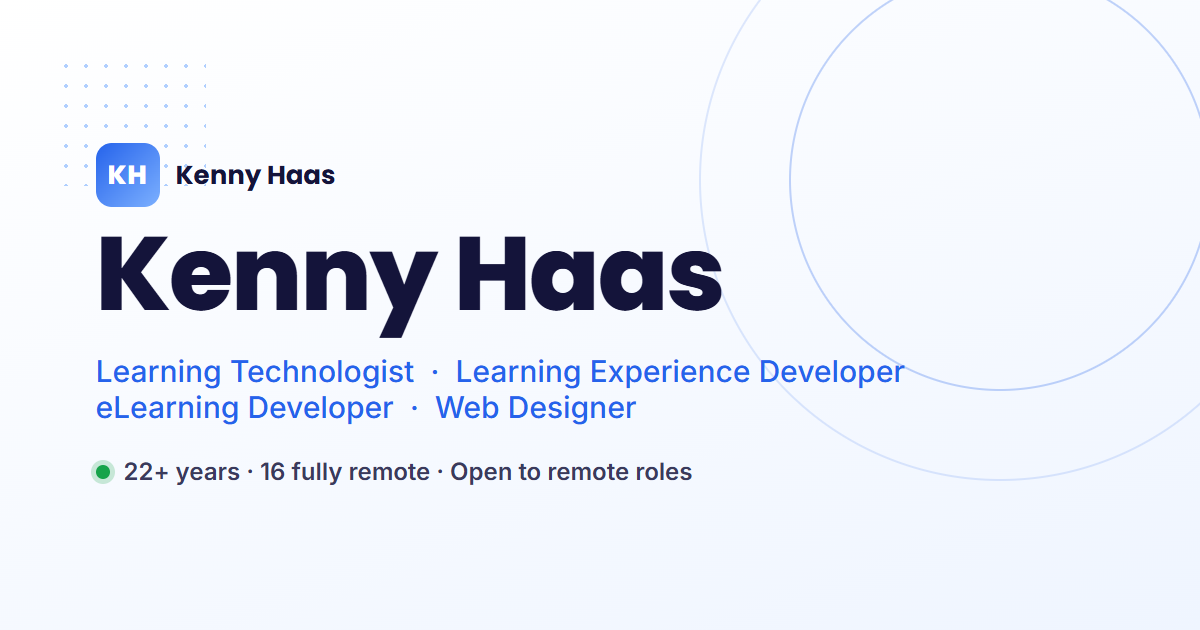
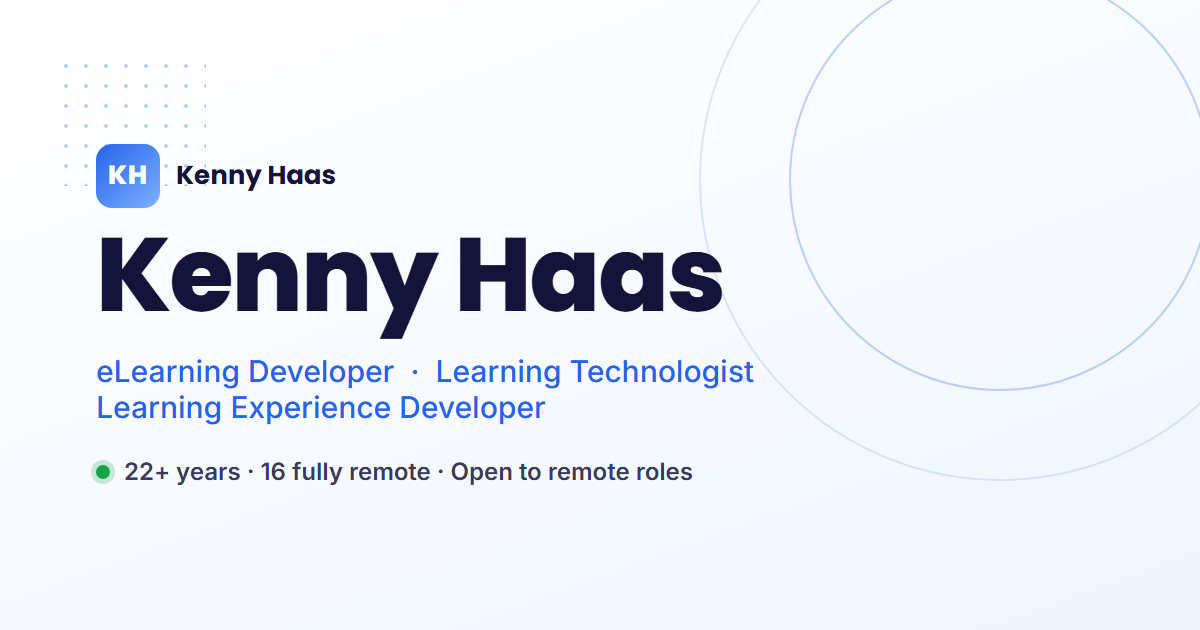
Update job titles site-wide, add Camtasia, refresh OG card and resume
- Hero, page <title>/OG/Twitter meta, and the six case-study Role lines
  now use eLearning Developer / Learning Technologist / Learning
  Experience Developer (Web Designer dropped)
- Regenerate assets/img/og-image.png from the updated
  og-image-template.html (still 1200x630)
- About: add Camtasia to Technical Skills, shorten "JavaScript" to "JS"
  in the Web Design entry, and revise the intro paragraph wording
- Updated resume PDF

diff --git a/index.html b/index.html
@@ -13,8 +13,8 @@
     gtag('config', 'G-B7SGGYEHKS');
   </script>
 
-  <title>Kenny Haas &mdash; Learning Technologist &amp; eLearning Developer</title>
-  <meta name="description" content="Portfolio of Kenny Haas, a Learning Technologist and eLearning Developer with 22+ years of experience &mdash; the last 16 fully remote &mdash; building eLearning, learning portals, and interactive learning tools. Open to remote roles." />
+  <title>Kenny Haas &mdash; eLearning Developer &amp; Learning Technologist</title>
+  <meta name="description" content="Portfolio of Kenny Haas, an eLearning Developer and Learning Technologist with 22+ years of experience &mdash; the last 16 fully remote &mdash; building eLearning, learning portals, and interactive learning tools. Open to remote roles." />
 
   <link rel="canonical" href="https://www.klhaas.com/" />
 
@@ -22,15 +22,15 @@
        Drop a 1200x630 image at assets/img/og-image.png (see assets/og-image-template.html). -->
   <meta property="og:type" content="website" />
   <meta property="og:url" content="https://www.klhaas.com/" />
-  <meta property="og:title" content="Kenny Haas &mdash; Learning Technologist &amp; eLearning Developer" />
+  <meta property="og:title" content="Kenny Haas &mdash; eLearning Developer &amp; Learning Technologist" />
   <meta property="og:description" content="22+ years designing and building eLearning, learning portals, and interactive learning tools &mdash; the last 16 fully remote. Open to remote roles." />
   <meta property="og:image" content="https://www.klhaas.com/assets/img/og-image.png" />
   <meta property="og:image:width" content="1200" />
   <meta property="og:image:height" content="630" />
-  <meta property="og:image:alt" content="Kenny Haas &mdash; Learning Technologist &amp; eLearning Developer" />
+  <meta property="og:image:alt" content="Kenny Haas &mdash; eLearning Developer &amp; Learning Technologist" />
   <meta name="twitter:card" content="summary_large_image" />
   <meta name="twitter:url" content="https://www.klhaas.com/" />
-  <meta name="twitter:title" content="Kenny Haas &mdash; Learning Technologist &amp; eLearning Developer" />
+  <meta name="twitter:title" content="Kenny Haas &mdash; eLearning Developer &amp; Learning Technologist" />
   <meta name="twitter:description" content="22+ years designing and building eLearning, learning portals, and interactive learning tools &mdash; the last 16 fully remote. Open to remote roles." />
   <meta name="twitter:image" content="https://www.klhaas.com/assets/img/og-image.png" />
 
@@ -119,7 +119,7 @@
       <div class="container hero-inner">
         <p class="eyebrow">Portfolio</p>
         <h1 class="hero-name">Kenny Haas</h1>
-        <p class="hero-roles">Learning Technologist&nbsp;&middot; Learning Experience Developer&nbsp;&middot; eLearning Developer&nbsp;&middot; Web Designer</p>
+        <p class="hero-roles">eLearning Developer&nbsp;&middot; Learning Technologist&nbsp;&middot; Learning Experience Developer</p>
         <p class="hero-status">
           <span class="status-dot" aria-hidden="true"></span>
           Open to remote roles &middot; Nauvoo, IL
@@ -153,7 +153,7 @@
           <div class="about-body">
             <h3>Welcome to my portfolio!</h3>
 
-            <p>I am a learning technology and development professional with 22+ years of experience &mdash; the last 16 fully remote &mdash; designing and developing end-to-end engaging digital learning experiences, eLearning, learning portals, interactive learning tools, and websites.  I have a proven ability to turn complex learning requirements into intuitive digital experiences.</p>
+            <p>I am a eLearning development and learning technology professional with 22+ years of experience &mdash; the last 16 fully remote &mdash; designing and developing end-to-end engaging digital learning experiences, eLearning, learning portals, learning tools, and websites.  I have a proven ability to turn complex learning requirements into intuitive digital learning experiences.</p>
 
             <div class="skills">
               <div class="skills-group">
@@ -164,8 +164,9 @@
                   <li>Elucidat</li>
                   <li>Synthesia</li>
                   <li>Vyond</li>
+                  <li>Camtasia</li>
                   <li>Adobe Creative Cloud (Dreamweaver, Photoshop, Illustrator, Premiere)</li>
-                  <li>Web Design (HTML, CSS, JavaScript)</li>
+                  <li>Web Design (HTML, CSS, JS)</li>
                   <li>xAPI/LRS/Veracity</li>
                   <li>LMS Administration</li>
                   <li>Generative AI</li>

diff --git a/assets/og-image-template.html b/assets/og-image-template.html
@@ -55,7 +55,7 @@
         <span class="kh-name">Kenny Haas</span>
       </div>
       <h1>Kenny Haas</h1>
-      <div class="roles">Learning Technologist &nbsp;&middot;&nbsp; Learning Experience Developer <br /> eLearning Developer &nbsp;&middot;&nbsp; Web Designer</div>
+      <div class="roles">eLearning Developer &nbsp;&middot;&nbsp; Learning Technologist <br /> Learning Experience Developer</div>
       <div class="status"><span class="dot"></span> 22+ years &middot; 16 fully remote &middot; Open to remote roles</div>
     </div>
   </div>

diff --git a/work/digital-tool.html b/work/digital-tool.html
@@ -107,7 +107,7 @@
         <dl class="cs-meta">
           <div>
             <dt>Role</dt>
-            <dd>Learning Technologist / Learning Experience Developer / eLearning Developer / Web Designer</dd>
+            <dd>eLearning Developer / Learning Technologist / Learning Experience Developer</dd>
           </div>
           <div>
             <dt>Primary Tools</dt>

diff --git a/work/elearning.html b/work/elearning.html
@@ -107,7 +107,7 @@
         <dl class="cs-meta">
           <div>
             <dt>Role</dt>
-            <dd>Learning Technologist / Learning Experience Developer / eLearning Developer / Web Designer</dd>
+            <dd>eLearning Developer / Learning Technologist / Learning Experience Developer</dd>
           </div>
           <div>
             <dt>Primary Tools</dt>

diff --git a/work/learning-game.html b/work/learning-game.html
@@ -107,7 +107,7 @@
         <dl class="cs-meta">
           <div>
             <dt>Role</dt>
-            <dd>Learning Technologist / Learning Experience Developer / eLearning Developer / Web Designer</dd>
+            <dd>eLearning Developer / Learning Technologist / Learning Experience Developer</dd>
           </div>
           <div>
             <dt>Primary Tools</dt>

diff --git a/work/learning-portal.html b/work/learning-portal.html
@@ -110,7 +110,7 @@
         <dl class="cs-meta">
           <div>
             <dt>Role</dt>
-            <dd>Learning Technologist / Learning Experience Developer / eLearning Developer / Web Designer</dd>
+            <dd>eLearning Developer / Learning Technologist / Learning Experience Developer</dd>
           </div>
           <div>
             <dt>Primary Tools</dt>

diff --git a/work/xapi.html b/work/xapi.html
@@ -107,7 +107,7 @@
         <dl class="cs-meta">
           <div>
             <dt>Role</dt>
-            <dd>Learning Technologist / Learning Experience Developer / eLearning Developer / Web Designer</dd>
+            <dd>eLearning Developer / Learning Technologist / Learning Experience Developer</dd>
           </div>
           <div>
             <dt>Primary Tools</dt>

diff --git a/work/ai-assisted-coding.html b/work/ai-assisted-coding.html
@@ -107,7 +107,7 @@
         <dl class="cs-meta">
           <div>
             <dt>Role</dt>
-            <dd>Learning Experience Developer / Web Designer</dd>
+            <dd>eLearning Developer / Learning Technologist / Learning Experience Developer</dd>
           </div>
           <div>
             <dt>Primary Tools</dt>
